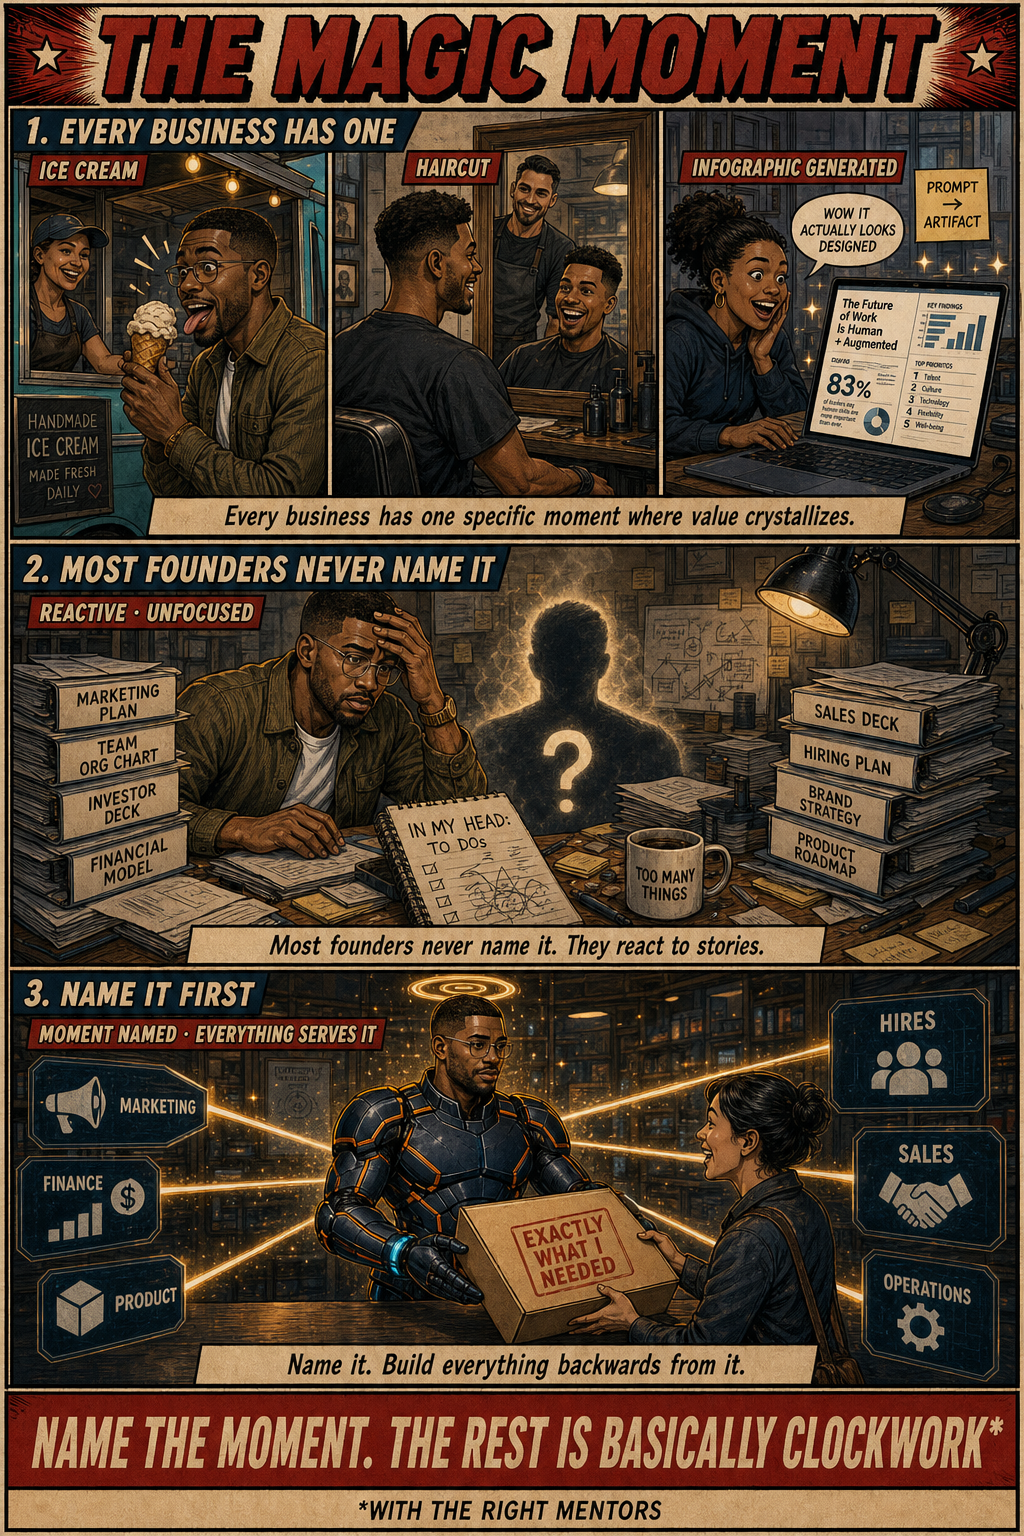
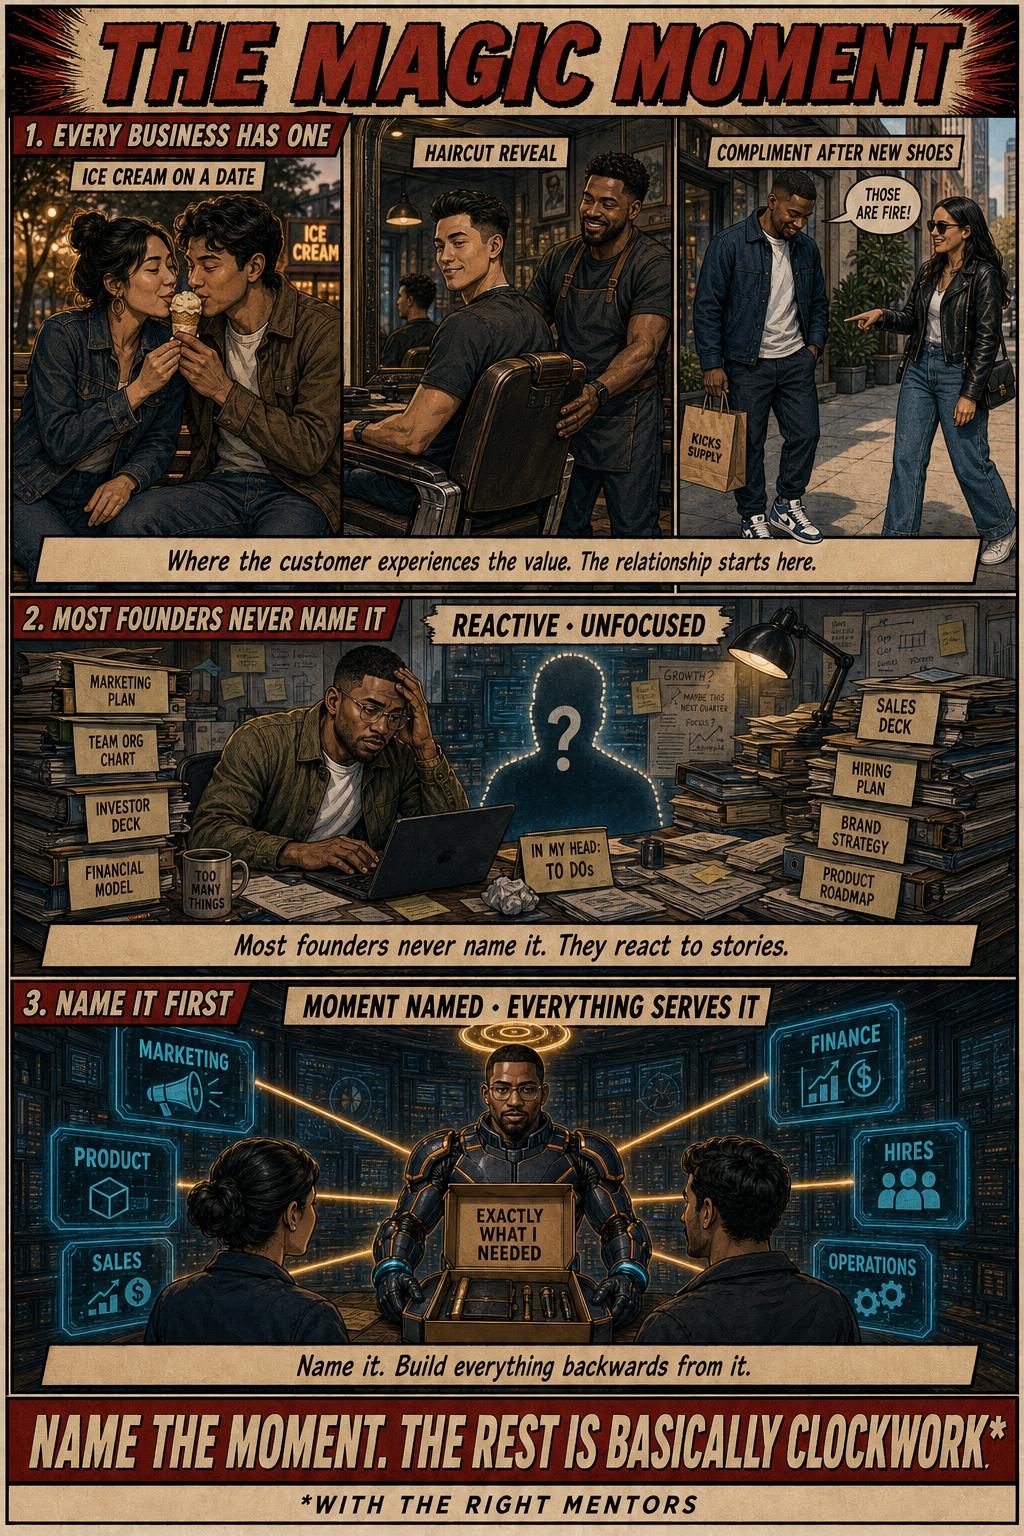
Magic moment: customer-side relational vignettes
Replace the founder-side and abstract vignettes with three
customer-side moments where the value is obviously experienced and
the relationship starts: ICE CREAM ON A DATE (couple sharing a cone),
HAIRCUT REVEAL (mirror moment, calm satisfied), COMPLIMENT AFTER NEW
SHOES (social validation on the street). New caption: 'Where the
customer experiences the value. The relationship starts here.'

diff --git a/docs/principles/the-magic-moment.md b/docs/principles/the-magic-moment.md
@@ -8,7 +8,7 @@ description: "Every business has one specific transaction where value is deliver
 
 *Every business has one specific transaction where value is delivered. Build everything backwards from that moment.*
 
-![Three-panel comic. 1. EVERY BUSINESS HAS ONE: a horizontal 3-vignette strip showing three magic-moment scenes side by side — ICE CREAM (a customer at a food-truck counter receives a cone, takes the first lick, eyes lighting up), HAIRCUT (a customer in a salon chair just spun toward a large mirror sees their fresh cut in the reflection, face brightening, stylist behind smiling), INFOGRAPHIC GENERATED (a young Black female founder at her laptop has just received an AI-generated polished complex infographic on her screen — visible charts, callouts, ranked lists, polished editorial layout, a sparkle effect indicating it was just generated; she leans back wide-eyed with delight; PROMPT → ARTIFACT label visible). Caption: 'Every business has one specific moment where value crystallizes.' 2. MOST FOUNDERS NEVER NAME IT: a founder sits at a desk surrounded by chaotic stacks of decks (MARKETING PLAN, TEAM ORG CHART, INVESTOR DECK, FINANCIAL MODEL, SALES DECK, HIRING PLAN, BRAND STRATEGY, PRODUCT ROADMAP, IN MY HEAD: TO DOs); at the center where the magic moment should be there is just a fuzzy question-marked silhouette; the founder looks scattered; banner REACTIVE · UNFOCUSED. Caption: 'Most founders never name it. They react to stories.' 3. NAME IT FIRST: the canonical Blasian supersuited operator stands inside the named magic moment (a specific concrete scene with a customer receiving a finished artifact box stamped FINANCE / DELIVERED / EXACTLY WHAT I NEEDED); around and behind him, MARKETING, FINANCE, PRODUCT, HIRES, SALES, OPERATIONS arrayed as supporting beams pointing inward; banner MOMENT NAMED · EVERYTHING SERVES IT. Caption: 'Name it. Build everything backwards from it.' Title bar: THE MAGIC MOMENT. Footer (two-bar): main red bar reads NAME THE MOMENT. THE REST IS BASICALLY CLOCKWORK*; cream sub-bar beneath reads *WITH THE RIGHT MENTORS.](/img/comics/the-magic-moment.png)
+![Three-panel comic. 1. EVERY BUSINESS HAS ONE: a horizontal 3-vignette strip showing three customer-side magic-moment scenes side by side, each centered on the moment the customer experiences the value in a calm, social, relational way — ICE CREAM ON A DATE (a young couple on a city bench at golden hour share a small handcrafted ice cream cone, looking at each other with quiet delight, the ICE CREAM shop sign glowing softly behind), HAIRCUT REVEAL (a customer in a salon chair has just been spun toward a large mirror, the barber lifting the cape; the customer\'s face brightens with calm satisfied delight as the fresh cut is revealed; the barber stands behind with a proud quiet smile), COMPLIMENT AFTER NEW SHOES (a young man walks down a city sidewalk in his crisp new sneakers carrying a small shoe-store bag; a stylish young woman walking past has stopped and pointed at his shoes — \"THOSE ARE FIRE!\" speech bubble — and he beams quietly proud). Caption: 'Where the customer experiences the value. The relationship starts here.' 2. MOST FOUNDERS NEVER NAME IT: a founder sits at a desk surrounded by chaotic stacks of decks (MARKETING PLAN, TEAM ORG CHART, INVESTOR DECK, FINANCIAL MODEL, SALES DECK, HIRING PLAN, BRAND STRATEGY, PRODUCT ROADMAP, IN MY HEAD: TO DOs); at the center where the magic moment should be there is just a fuzzy question-marked silhouette; the founder looks scattered; banner REACTIVE · UNFOCUSED. Caption: 'Most founders never name it. They react to stories.' 3. NAME IT FIRST: the canonical Blasian supersuited operator stands inside the named magic moment (a specific concrete scene with a customer receiving a finished artifact box stamped FINANCE / DELIVERED / EXACTLY WHAT I NEEDED); around and behind him, MARKETING, FINANCE, PRODUCT, HIRES, SALES, OPERATIONS arrayed as supporting beams pointing inward; banner MOMENT NAMED · EVERYTHING SERVES IT. Caption: 'Name it. Build everything backwards from it.' Title bar: THE MAGIC MOMENT. Footer (two-bar): main red bar reads NAME THE MOMENT. THE REST IS BASICALLY CLOCKWORK*; cream sub-bar beneath reads *WITH THE RIGHT MENTORS.](/img/comics/the-magic-moment.png)
 
 ---
 
